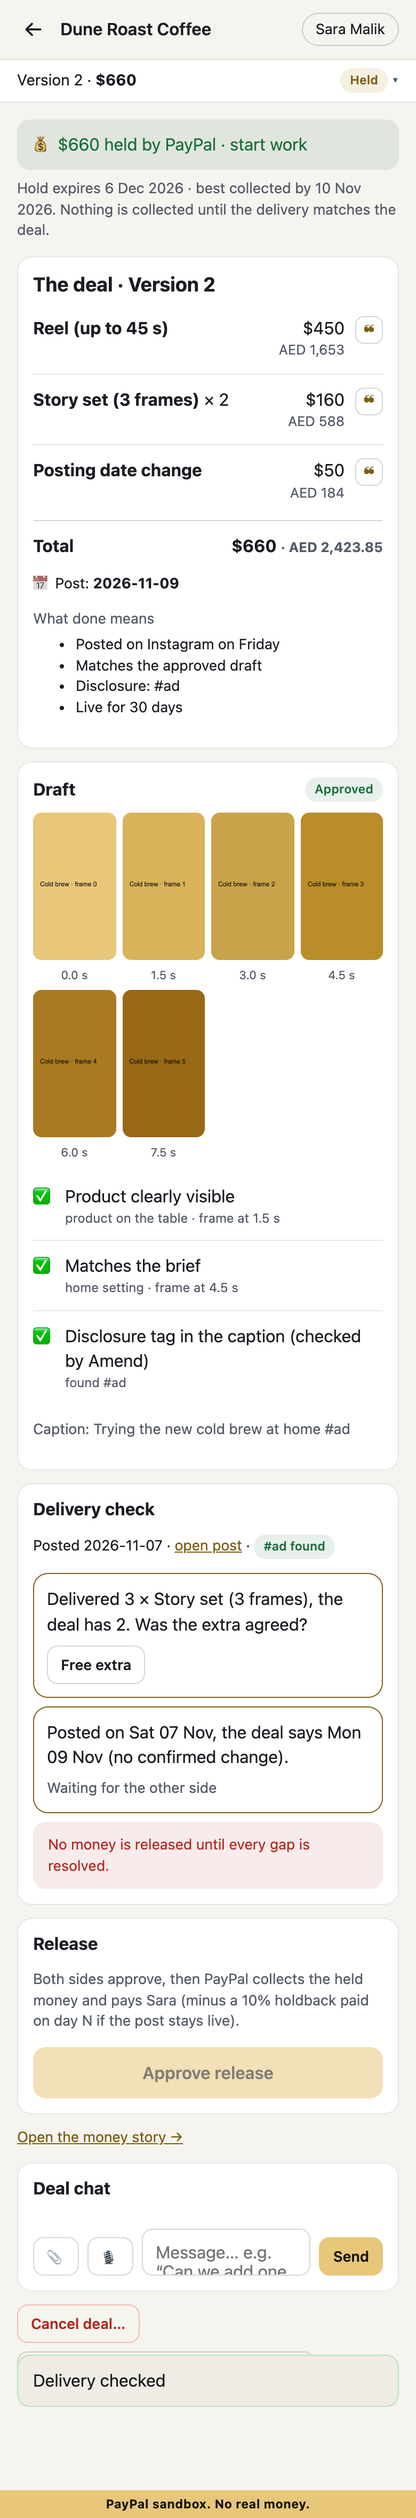
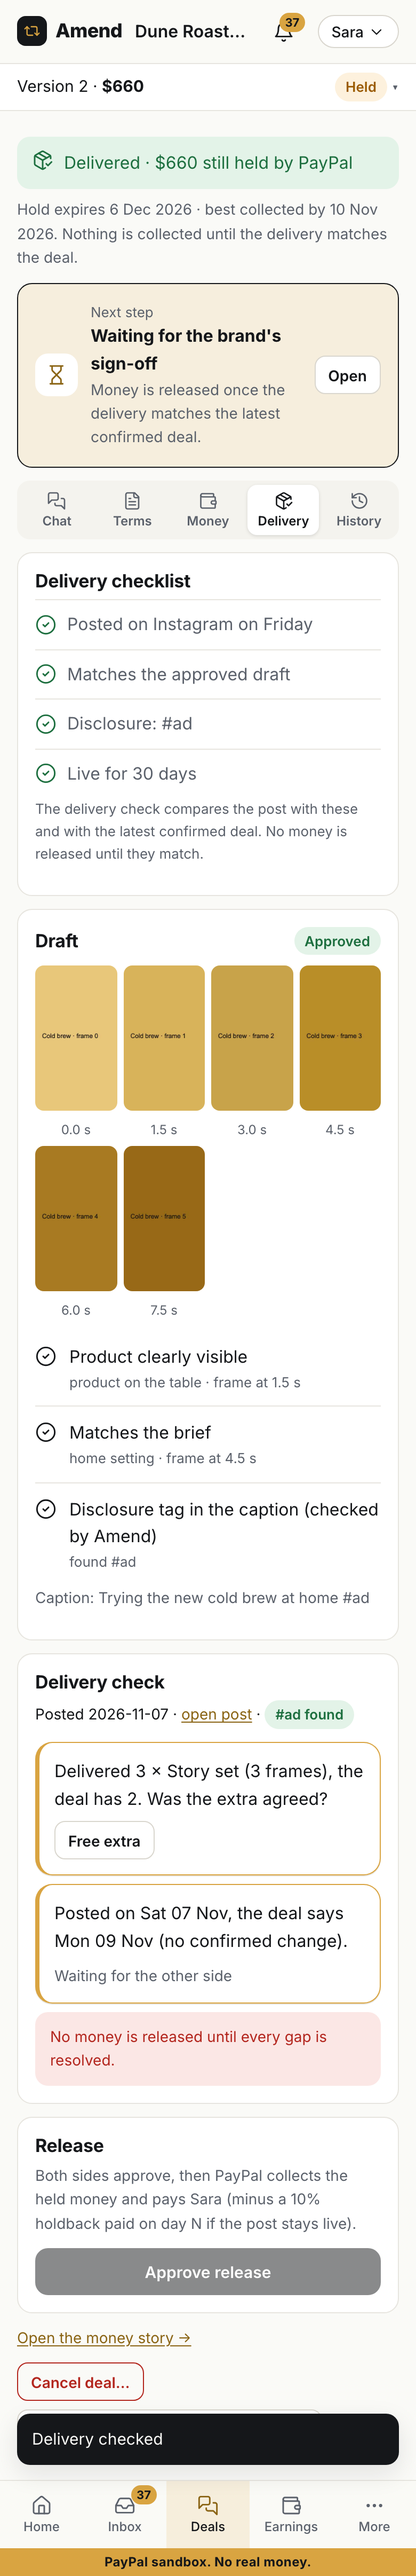
Block 6b: deal room polish (next step, money card, delivery checklist, phone tabs, change card), walk fixed

diff --git a/web/deal.html b/web/deal.html
@@ -28,7 +28,7 @@ async function load() {
   catch (e) {
     if (!IS_BRAND && e.status === 401) { location.href = "/login"; return; }
     const kind = e.data && e.data.kind;
-    $("#view").innerHTML = `<div class="empty"><div class="ic">${kind === "expired" || kind === "revoked" ? "⌛" : "<i data-lucide='search' aria-hidden='true'></i>"}</div>
+    $("#view").innerHTML = `<div class="empty"><div class="ic">${kind === "expired" || kind === "revoked" ? "<i data-lucide='hourglass' aria-hidden='true'></i>" : "<i data-lucide='search' aria-hidden='true'></i>"}</div>
       <h2>${kind === "expired" ? "This deal link expired" : kind === "revoked" ? "This link was switched off" : "Link not found"}</h2>
       <p>${kind ? "Ask the creator for a new one." : esc(e.message)}</p></div>`;
     return;
@@ -63,7 +63,7 @@ function linesHtml(editable = false) {
           <div class="err" data-err="${t.id}" hidden></div>` : ""}
       </div>
       <div class="amt">${usd(t.amount_cents)}<div class="aed">${t.aed}</div></div>
-   ${t.quote ? `<button class="q" title="Where this was agreed" data-quote="${esc(t.quote)}"></button>` : ""}
+   ${t.quote ? `<button class="q" title="Where this was agreed" data-quote="${esc(t.quote)}" aria-label="Show the exact words"><i data-lucide='quote' aria-hidden='true'></i></button>` : ""}
     </div>`).join("")}
     <div class="total"><span>Total</span><span>${usd(V.total_cents)} <span class="aed">· ${V.total_aed}</span></span></div></div>`;
 }
@@ -149,16 +149,19 @@ function activeRoom(d) {
       <blockquote class="small">${esc(pa.name || "")}: “${esc(pa.quote || "")}”</blockquote><blockquote class="small">${esc(pb.name || "")}: “${esc(pb.quote || "")}”</blockquote>
       ${IS_BRAND && V.me.role === "brand_main" ? `<div class="row" style="gap:8px"><button class="btn small" data-pick="a">Follow ${esc(pa.name || "A")}</button><button class="btn small" data-pick="b">Follow ${esc(pb.name || "B")}</button></div>` : ""}</div>`
     : d.status === "completed" ? `<div class="banner ok"><i data-lucide='circle-check' aria-hidden='true'></i> Completed</div>`
+    : d.status === "delivered" ? `<div class="banner ok"><i data-lucide='package-check' aria-hidden='true'></i> Delivered${held ? ` · ${usd(held)} still held by PayPal` : " · the held money has been collected"}</div>`
     : `<div class="banner ok"><i data-lucide='wallet' aria-hidden='true'></i> ${usd(held)} held by PayPal · ${IS_BRAND ? esc(first) + " can start work" : "start work"}</div>`;
   $("#view").innerHTML = `${banner}
-    ${V.hold && V.hold.expires_at ? `<p class="small muted" style="margin-top:8px">Hold expires ${dateStr(V.hold.expires_at)}${V.hold.honor_until ? ` · best collected by ${dateStr(V.hold.honor_until)}` : ""}. Nothing is collected until the delivery matches the deal.</p>` : ""}
+    ${V.hold && V.hold.expires_at && held ? `<p class="small muted" style="margin-top:8px">Hold expires ${dateStr(V.hold.expires_at)}${V.hold.honor_until ? ` · best collected by ${dateStr(V.hold.honor_until)}` : ""}. Nothing is collected until the delivery matches the deal.</p>` : ""}
     ${IS_BRAND && pendingHolds.length ? `<div class="banner gold" style="margin-top:10px">A confirmed change needs ${usd(pendingHolds.reduce((a, h) => a + h.amount_cents, 0))} more held.
       <button class="btn primary small" style="margin-left:8px" id="pay-extra">Pay with PayPal</button></div>` : ""}
-    <div class="card hide-desktop" style="margin-top:12px"><h2>The deal · Version ${d.version}</h2>${linesHtml()}${extrasHtml()}</div>
-    ${shipHtml()}
-    <div id="work" style="margin-top:12px"></div>
-    <div id="chat" style="margin-top:12px"></div>
-    <div id="cancelbox"></div>
+    ${nextStepHtml(d, pendingHolds)}
+    <div class="seg room-tabs hide-desktop" role="tablist" aria-label="Deal sections">${ROOM_TABS.map(([k, l, ic]) => `<button role="tab" data-rt="${k}" aria-selected="${k === ROOM_TAB}" class="${k === ROOM_TAB ? "on" : ""}">${icon(ic)}<span>${l}</span></button>`).join("")}</div>
+    <div class="rt" data-tab="terms"><div class="card hide-desktop" style="margin-top:12px"><h2>The deal · Version ${d.version}</h2>${linesHtml()}${extrasHtml()}</div></div>
+    <div class="rt" data-tab="money"><div class="hide-desktop" style="margin-top:12px">${moneyCardHtml()}</div></div>
+    <div class="rt" data-tab="delivery">${shipHtml()}<div class="hide-desktop" style="margin-top:12px">${checklistHtml(d)}</div><div id="work" style="margin-top:12px"></div></div>
+    <div class="rt" data-tab="chat"><div id="chat" style="margin-top:12px"></div><div id="cancelbox"></div></div>
+    <div class="rt" data-tab="history"><div class="hide-desktop" style="margin-top:12px">${historyHtml()}</div></div>
     <div class="row wrapx" style="margin-top:12px;gap:8px">
       ${IS_BRAND && V.me.role === "brand_main" ? `<button class="btn small" id="invite"><i data-lucide='users' aria-hidden='true'></i> Invite teammate</button>` : ""}
       ${(IS_BRAND ? V.me.role === "brand_main" : true) && !["completed", "cancelled"].includes(d.status) ? `<button class="btn small danger" id="cancel-deal">Cancel deal…</button>` : ""}
@@ -174,8 +177,68 @@ function activeRoom(d) {
  if ($("#del-media")) $("#del-media").onclick = e => { if (confirm("Delete your voice notes, call transcripts, screenshots and files on this deal? A record that they were deleted stays.")) busy(e.currentTarget, async () => {
   const r = await api(url("/media/delete-mine"), { method: "POST" }); toast(`Deleted ${r.deleted} file${r.deleted === 1 ? "" : "s"}`); Chat.reload(); }); };
   if ($("#cancel-deal")) $("#cancel-deal").onclick = cancelSheet;
+  $$("[data-rt]").forEach(b => b.onclick = () => showRoomTab(b.dataset.rt));
+  $$("[data-goto]").forEach(b => b.onclick = () => { showRoomTab(b.dataset.goto); document.querySelector(`.rt[data-tab="${b.dataset.goto}"]`)?.scrollIntoView({ block: "start", behavior: "smooth" }); });
+  showRoomTab(ROOM_TAB);
   cancelBox();
   if (typeof Work !== "undefined") Work.mount($("#work"), { V, IS_BRAND, url, reload: load });
+}
+
+/* ---------- deal room sections (Block 6): tabs on phones, side panel on desktop ---------- */
+const ROOM_TABS = [["chat", "Chat", "messages-square"], ["terms", "Terms", "file-text"], ["money", "Money", "wallet"], ["delivery", "Delivery", "package-check"], ["history", "History", "history"]];
+let ROOM_TAB = (location.hash || "").slice(1) && ROOM_TABS.some(t => t[0] === location.hash.slice(1)) ? location.hash.slice(1) : "chat";
+function showRoomTab(k) {
+  ROOM_TAB = k;
+  $$(".rt").forEach(s => s.classList.toggle("on", s.dataset.tab === k));
+  $$("[data-rt]").forEach(b => { const on = b.dataset.rt === k; b.classList.toggle("on", on); b.setAttribute("aria-selected", on); });
+}
+function sumMoney(kind, statuses, f = i => i.amount_cents) { return (V.money || []).filter(i => i.kind === kind && statuses.includes(i.status)).reduce((a, i) => a + f(i), 0); }
+function moneyCardHtml() {
+  const held = V.held_cents || 0, collected = sumMoney("capture", ["paid", "refunded"]), refunded = sumMoney("refund", ["refunded"]);
+  const released = sumMoney("hold", ["voided"]), paidOut = IS_BRAND ? 0 : sumMoney("payout", ["paid"]);
+  const row = (ic, label, c, hint = "") => `<div class="line"><div class="grow">${icon(ic)} ${label}${hint ? `<div class="tiny muted">${hint}</div>` : ""}</div><div class="amt">${usd(c)}<div class="aed">${aed(c)}</div></div></div>`;
+  const h = V.hold;
+  return `<div class="card"><div class="row between"><h3>Money</h3>${h ? moneyPill(h.status) : ""}</div>
+    ${(V.money || []).length ? `<div class="list">${row("lock", "Held by PayPal", held, h && h.expires_at && held ? "Hold expires " + dateStr(h.expires_at) : "")}
+      ${row("wallet", "Collected", collected, "Only after the delivery matches the deal")}${released ? row("undo-2", "Released back to the brand", released) : ""}
+      ${refunded ? row("rotate-ccw", "Refunded", refunded) : ""}${paidOut ? row("send", "Paid out to you", paidOut) : ""}</div>
+      ${h && h.authorization ? `<p class="tiny muted">PayPal authorisation ${esc(h.authorization)}</p>` : ""}
+      ${!IS_BRAND ? `<a class="small" href="/studio/ledger">See every payment with the words behind it</a>` : ""}`
+      : `<p class="muted small">Nothing held yet. Money is held once the deal is accepted and the brand pays.</p>`}</div>`;
+}
+function checklistHtml(d) {
+  const items = d.done_means || [];
+  const done = ["delivered", "completed"].includes(d.status);
+  return `<div class="card"><h3>Delivery checklist</h3>
+    ${items.length ? `<ul class="checklist">${items.map(x => `<li class="${done ? "done" : ""}">${icon(done ? "circle-check" : "circle")}<span class="grow">${esc(x.value)}</span></li>`).join("")}</ul>
+      <p class="tiny muted">The delivery check compares the post with these and with the latest confirmed deal. No money is released until they match.</p>`
+      : `<p class="small muted">Nothing listed yet. "What done means" from the brief shows here.</p>`}</div>`;
+}
+function historyHtml() {
+  const ev = (V.events || []).filter(e => EVENT_TEXT[e.type]).slice(-20).reverse();
+  return `<div class="card"><h3>History</h3><ul class="events">${ev.map(e => `<li><span class="grow">${esc(EVENT_TEXT[e.type])}</span><span class="tiny muted">${ago(e.at)}</span></li>`).join("") || '<li class="muted">Nothing yet.</li>'}</ul></div>`;
+}
+// What should happen next, and who does it. Worked out from the deal's status and money, never from the AI.
+function nextStep(d, pendingHolds) {
+  const first = V.creator.name.split(" ")[0], brandName = (V.brand && V.brand.name || "the brand").split(" ")[0];
+  if (d.status === "paused") return { ic: "circle-pause", t: "Resolve the conflict", s: IS_BRAND ? "Pick whose instruction to follow. Money waits until you do." : `Waiting for ${brandName} to pick whose instruction to follow.` };
+  if (pendingHolds.length) return IS_BRAND ? { ic: "wallet", t: `Hold ${usd(pendingHolds.reduce((a, h) => a + h.amount_cents, 0))} more`, s: "A confirmed change added work. Pay with PayPal to hold the extra." }
+    : { ic: "hourglass", t: "Waiting for the extra hold", s: `${brandName} needs to hold the money for the confirmed change.` };
+  if (d.status === "completed") return { ic: "circle-check", t: "Done", s: "Every payment is in the ledger with the words behind it.", tab: "money" };
+  if (d.status === "delivered" && !(V.held_cents || 0) && (V.money || []).some(i => i.kind === "capture" && i.status === "paid"))
+    return { ic: "circle-check", t: "Money collected", s: IS_BRAND ? "Nothing more to do. Any holdback goes to the creator later, only if the post is still live." : "Any holdback is paid on its day if the post is still live.", tab: "money" };
+  if (d.status === "delivered") return IS_BRAND ? { ic: "eye", t: "Check the delivery", s: `Compare what ${first} delivered with the deal, then release.`, tab: "delivery" }
+    : { ic: "hourglass", t: "Waiting for the brand's sign-off", s: "Money is released once the delivery matches the latest confirmed deal.", tab: "delivery" };
+  if (d.status === "in_progress") return IS_BRAND ? { ic: "messages-square", t: `${first} is working on it`, s: "Changes you ask for in chat become change cards you both confirm.", tab: "chat" }
+    : { ic: "upload", t: "Send your draft", s: "Upload the draft or post link. The delivery check runs against the deal.", tab: "delivery" };
+  return null;
+}
+function nextStepHtml(d, pendingHolds) {
+  const n = nextStep(d, pendingHolds);
+  if (!n) return "";
+  return `<div class="card nextstep" style="margin-top:12px"><div class="row" style="gap:12px"><span class="ic">${icon(n.ic)}</span>
+    <div class="grow"><div class="tiny muted">Next step</div><b>${esc(n.t)}</b><div class="small muted">${esc(n.s)}</div></div>
+    ${n.tab ? `<button class="btn small hide-desktop" data-goto="${n.tab}">Open</button>` : ""}</div></div>`;
 }
 
 /* ---------- cancellation with a fair split (Phase 7) ---------- */
@@ -266,11 +329,8 @@ function panel() {
   $("#panel").innerHTML = `
     <div class="card"><div class="row between"><h3>The deal</h3>${dealPill(V.deal.status)}</div>
       ${V.terms.length ? linesHtml() + extrasHtml() : `<p class="muted small">No lines yet. They appear when the brief is drafted.</p>`}</div>
-    <div class="card" style="margin-top:14px"><div class="row between"><h3>Money</h3>${h ? moneyPill(h.status) : ""}</div>
-      ${h ? `<p class="small">${usd(h.amount_cents)} <span class="aed">· ${aed(h.amount_cents)}</span></p>
-        ${h.expires_at ? `<p class="small muted">Hold expires ${dateStr(h.expires_at)}${h.honor_until ? `<br>Best collected by ${dateStr(h.honor_until)}` : ""}</p>` : ""}
-        ${h.authorization ? `<p class="tiny muted">PayPal authorisation ${esc(h.authorization)}</p>` : h.paypal_id ? `<p class="tiny muted">PayPal order ${esc(h.paypal_id)}</p>` : ""}`
-        : `<p class="muted small">Nothing held yet. Money is held once the deal is accepted and the brand pays.</p>`}</div>
+    <div style="margin-top:14px">${moneyCardHtml()}</div>
+    ${["accepted", "in_progress", "delivered", "completed", "paused"].includes(V.deal.status) ? `<div style="margin-top:14px">${checklistHtml(V.deal)}</div>` : ""}
     <div class="card" style="margin-top:14px"><h3>History</h3>
       <ul class="events">${ev.map(e => `<li><span class="grow">${esc(EVENT_TEXT[e.type])}</span><span class="tiny muted">${ago(e.at)}</span></li>`).join("") || '<li class="muted">Nothing yet.</li>'}</ul></div>`;
   bindQuotes($("#panel"));

diff --git a/web/static/chat.js b/web/static/chat.js
@@ -73,7 +73,7 @@ const Chat = (() => {
 
   function changeCard(c) {
     const open = c.status === "previewed" || c.status === "detected";
-    const title = c.suggestion ? "<i data-lucide='lightbulb' aria-hidden='true'></i> Suggestion" : c.kind === "revision" ? "<i data-lucide='pencil' aria-hidden='true'></i> Revision" : c.kind === "new_work" ? "🆕 New work detected" : "<i data-lucide='lightbulb' aria-hidden='true'></i> Change detected";
+    const title = c.suggestion ? "<i data-lucide='lightbulb' aria-hidden='true'></i> Suggestion" : c.kind === "revision" ? "<i data-lucide='pencil' aria-hidden='true'></i> Revision" : c.kind === "new_work" ? "<i data-lucide='sparkle' aria-hidden='true'></i> New work detected" : "<i data-lucide='lightbulb' aria-hidden='true'></i> Change detected";
     const status = { applied: "<i data-lucide='circle-check' aria-hidden='true'></i> Confirmed by both · applied", rejected: "Rejected", expired: "Expired · the last confirmed version stays" }[c.status] || "";
     const exp = open ? Math.max(0, Math.round((new Date(c.expires_at) - Date.now()) / 3600000)) : 0;
     const iOk = isBrand ? c.brand_ok : c.creator_ok;
@@ -83,12 +83,12 @@ const Chat = (() => {
       ${c.suggestion ? `<p class="small muted">From ${esc(c.proposed_by || "a teammate")}. Suggestions can't move money until the brand's main contact proposes them.</p>` : ""}
       <div class="list">${c.lines.map(l => `<div class="line"><div class="grow">${esc(l.label)}
           ${l.source ? `<div class="tiny muted">${esc(l.source)}${l.second != null ? ` · at ${Math.floor(l.second / 60)}:${String(Math.round(l.second % 60)).padStart(2, "0")} in the call` : ""}</div>` : ""}</div>
-          <div class="amt">${l.amount_cents ? (l.amount_cents > 0 ? "+" : "−") + usd(Math.abs(l.amount_cents)) : "free"}</div>
-     <button class="q" data-quote="${esc(l.quote)}" data-who="${esc(c.proposed_by || "")}" title="The exact words"></button></div>`).join("")}</div>
+          <div class="amt cc-amt ${l.amount_cents > 0 ? "plus" : l.amount_cents < 0 ? "minus" : ""}">${l.amount_cents ? (l.amount_cents > 0 ? "+" : "−") + usd(Math.abs(l.amount_cents)) : "free"}</div>
+     <button class="q" data-quote="${esc(l.quote)}" data-who="${esc(c.proposed_by || "")}" title="The exact words" aria-label="Show the exact words"><i data-lucide='quote' aria-hidden='true'></i></button></div>`).join("")}</div>
       ${c.conflicts.map(x => `<div class="conflict"><i data-lucide='triangle-alert' aria-hidden='true'></i> ${esc(x)}</div>`).join("")}
       ${c.override_reason ? `<div class="tiny muted">Creator's override: “${esc(c.override_reason)}”</div>` : ""}
-      <div class="small muted" style="margin-top:6px">${c.untouched} other item${c.untouched === 1 ? "" : "s"} unchanged</div>
-      <div class="small"><b>Money:</b> ${c.money.map(esc).join(" · ")}</div>
+      <div class="cc-foot"><span><i data-lucide='lock' aria-hidden='true'></i> ${c.untouched} other item${c.untouched === 1 ? "" : "s"} unchanged</span>
+        <span><i data-lucide='wallet' aria-hidden='true'></i> ${c.money.map(esc).join(" · ")}</span></div>
       ${open ? `<div class="row wrapx" style="margin-top:10px;gap:8px">
           ${c.suggestion ? (isBrand ? `<button class="btn primary small" data-act="propose" data-id="${c.id}">Propose this change</button>` : "")
             : (iOk ? `<span class="pill held">You confirmed</span>` : `<button class="btn primary small" data-act="confirm" data-id="${c.id}" data-conflict="${c.conflicts.length && !isBrand && !c.override_reason ? 1 : 0}">Confirm</button>`)}

diff --git a/web/static/app.css b/web/static/app.css
@@ -376,7 +376,15 @@ table.data tr:hover td { background: var(--surface-2); }
 .bubble.mine { align-self: flex-end; background: var(--gold-soft); border-radius: 16px 16px 4px 16px; }
 .sysline { align-self: center; font-size: 13px; color: var(--muted); display: inline-flex; gap: 6px; align-items: center; padding: 2px 10px; text-align: center; }
 .sysline svg { width: 14px; height: 14px; }
-.changecard { border: 1px solid var(--gold); border-radius: 16px; padding: 14px; background: var(--surface); }
+.changecard { border: 1px solid var(--gold); border-left-width: 4px; border-radius: 16px; padding: 14px; background: var(--surface); box-shadow: 0 1px 0 var(--border); }
+.changecard .cc-foot { display: flex; flex-wrap: wrap; gap: 6px 12px; margin-top: 8px; font-size: 14px; color: var(--muted); }
+/* Deal room sections: tabs on phones and tablets; everything shown on desktop with the side panel */
+.room-tabs { margin-top: 12px; position: sticky; top: calc(var(--topbar) + 4px); z-index: 5; }
+.seg.room-tabs button { display: flex; flex-direction: column; align-items: center; justify-content: center; white-space: nowrap; min-width: 0; gap: 2px; font-size: 12px; padding: 6px 2px; }
+.seg.room-tabs button svg { width: 18px; height: 18px; }
+@media (max-width: 1024px) { body.dealroom .rt:not(.on) { display: none; } }
+.nextstep { border-color: var(--gold); background: var(--gold-soft); }
+.nextstep .ic { width: 40px; height: 40px; border-radius: 12px; display: grid; place-items: center; background: var(--surface); color: var(--gold-ink); flex: none; }
 .changecard .cc-head { display: flex; gap: 8px; align-items: center; font-weight: 700; }
 .changecard .cc-head svg { color: var(--gold-ink); }
 .changecard .cc-line { display: flex; gap: 10px; padding: 8px 0; border-top: 1px solid var(--border); align-items: flex-start; }

diff --git a/tests/browser/walk_full.py b/tests/browser/walk_full.py
@@ -70,7 +70,7 @@ def main() -> None:
             pg.on("pageerror", lambda e, w=who: errors.append(f"{w}: {e}"))
 
         print("Phase 0: accounts")
-        n.goto(BASE + "/"); n.wait_for_selector(".auth-slot a"); shot(n, "phase0", "01-home-sign-in-header")
+        n.goto(BASE + "/"); n.wait_for_selector(".auth-slot a", state="attached"); shot(n, "phase0", "01-home-sign-in-header")
         n.goto(BASE + "/signup?kind=brand"); shot(n, "phase0", "02-signup-brand")
         login(n, "nadia@duneroast.example", "brand"); n.wait_for_selector("h1"); shot(n, "phase0", "03-brand-dashboard")
 
@@ -118,6 +118,9 @@ def main() -> None:
         deal_id = s.url.rstrip("/").rsplit("/", 1)[1]
         status = s.evaluate(frames_js(), f"/api/deals/{deal_id}/draft")
         assert status == 200, status
+        # On a phone the deal room shows one section at a time: open the Delivery tab (the URL hash keeps it on reload)
+        for pg in (s, n):
+            pg.goto(pg.url.split("#")[0] + "#delivery")
         s.reload(); s.wait_for_selector(".frames"); shot(s, "phase6", "01-draft-checked-S31")
         n.reload(); n.wait_for_selector("#w-approve"); shot(n, "phase6", "02-brand-reviews-draft"); n.click("#w-approve")
         s.reload(); s.wait_for_selector("#w-post")
@@ -138,7 +141,7 @@ def main() -> None:
         s.goto(f"{BASE}/story/{deal_id}"); s.wait_for_selector("h1"); shot(s, "phase6", "06-money-story-S39")
 
         print("Phase 7: second deal, conflict pause, cancellation split")
-        s.goto(BASE + "/studio/deals"); s.click(".fab"); s.fill("input[name=brand_org]", "Dune Roast Coffee"); s.fill("input[name=contact_name]", "Nadia")
+        s.goto(BASE + "/studio/deals"); s.click("#d-new"); s.fill("input[name=brand_org]", "Dune Roast Coffee"); s.fill("input[name=contact_name]", "Nadia")
         s.click("#nd-go"); s.wait_for_selector("#lk"); link2 = s.input_value("#lk")
         n.goto(link2); n.click("#welcome-go"); n.click("#yes"); n.fill("#brief", "1 Reel showing our cold brew at home. Post Friday. #ad.")
         n.click("#draft"); n.wait_for_selector("text=Waiting for Sara to accept")

diff --git a/docs/progress.md b/docs/progress.md
@@ -167,3 +167,13 @@ Done:
 - Screenshots: docs/screenshots/tonight/block5/ (no JS errors, no sideways scroll).
 Note: the local demo server on port 8020 needs BASE_URL=http://127.0.0.1:8020 or sign-in is refused by the origin check.
 Next: Block 6 (brand workspace + deal room polish).
+
+## Block 6: brand workspace + deal room polish (7 Nov, night)
+Done:
+- Brand workspace (amend/brandspace.py + web/static/brand-pages.js): Home (money held, paid to creators, refunded, approvals needed, upcoming posts, pipeline: all from real tables), Deals board/list with receipt PDFs, named Shortlists shared with the team (teammates matched by the email added on the Team page; only the list's maker can make it private or delete it), Payments (table + CSV; creator payouts not shown to brands), Team with "Can confirm" toggle, Settings (company, theme, sign out).
+- Find creators: Quick view side drawer (reach with source + as-of date, prices, track record, add to a shortlist).
+- Deal room: Next step card (worked out from deal status and money, not AI), Money card (held / collected / released / refunded / paid out), Delivery checklist, phone tabs Chat · Terms · Money · Delivery · History (URL hash keeps the tab), cleaner change card (+/− colours, untouched count and money on one line), quote buttons have their icon back, delivered deals no longer say "can start work".
+- Tests: tests/test_brandspace.py (S93 ×2, S94, payments/CSV/receipt, team, stages). Suite: 460 passed, 3 skipped.
+- Browser walk (tests/browser/walk_full.py, test mode) passes end to end again; two selectors were stale since the marketing and Deals rewrites, now fixed. No JS errors.
+Open: "Can confirm" on the Team page is saved and shown, but the money rules still use the deal-link invite's can_confirm (unchanged; linking the two is a money-rule change, so not done tonight without your OK).
+Next: Block 7 (states, accessibility, smoke both roles, checkpoint 3 screenshots, sitemap, ticks S84–S97).
